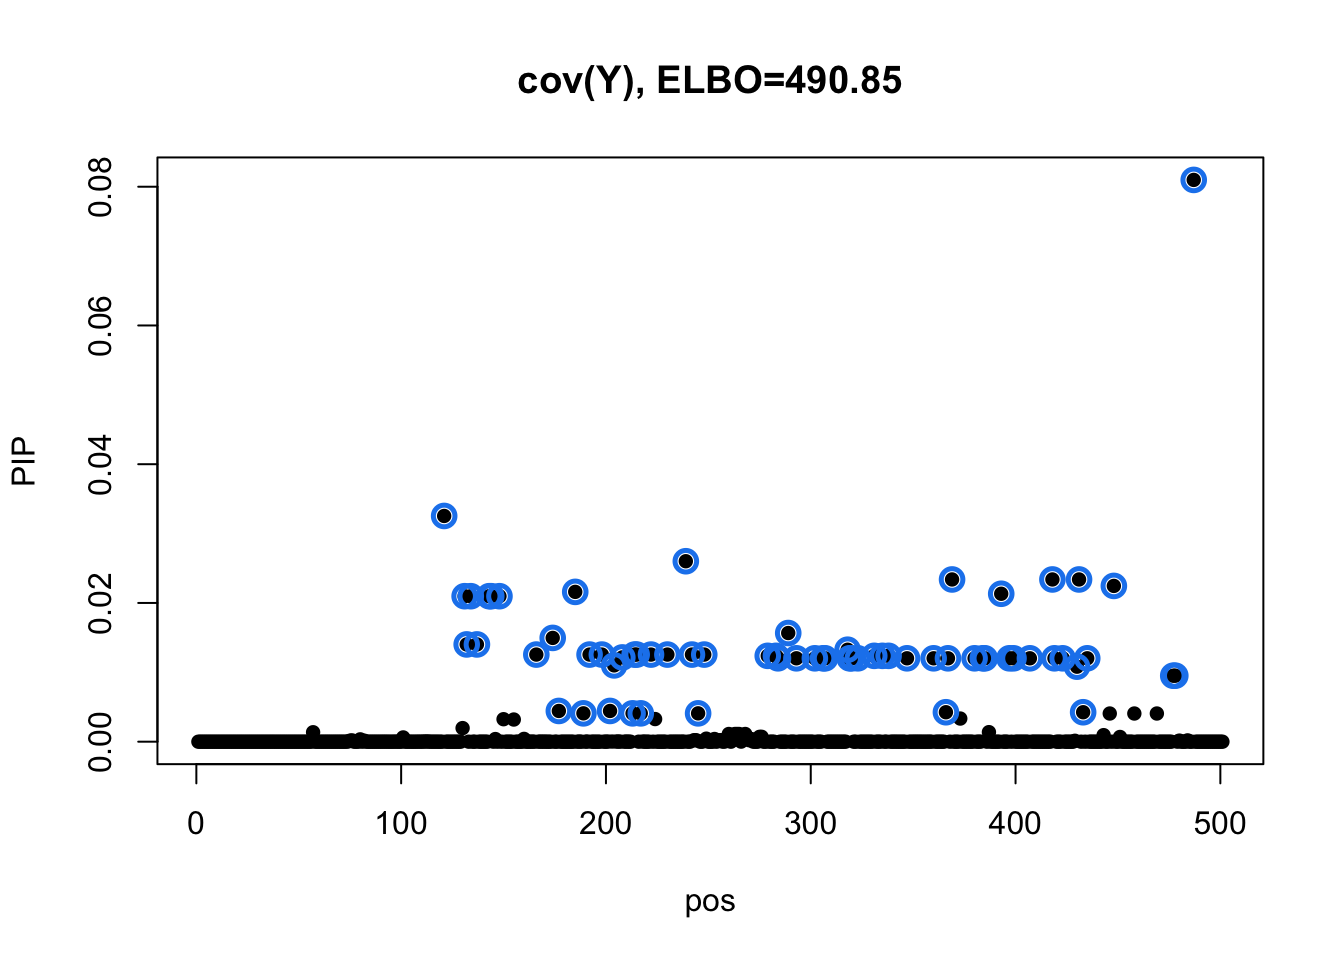
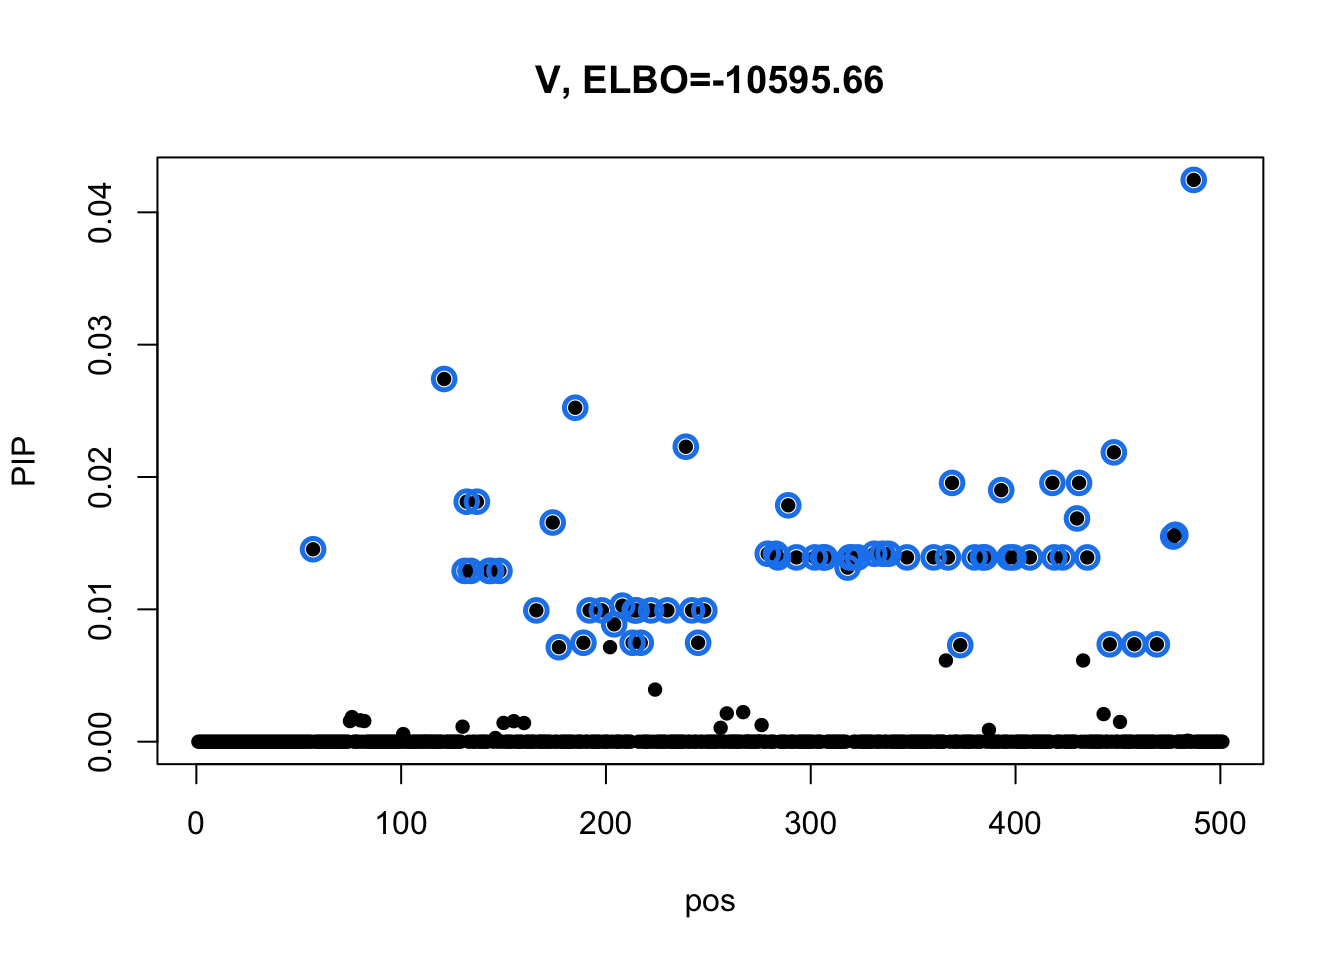
Build site.

diff --git a/docs/GTExprofileProblem.html b/docs/GTExprofileProblem.html
@@ -428,7 +428,7 @@ div.tocify {
 <div class="tab-content">
 <div id="summary" class="tab-pane fade in active">
 <p>
-<strong>Last updated:</strong> 2020-11-09
+<strong>Last updated:</strong> 2020-11-10
 </p>
 <p>
 <strong>Checks:</strong> <span class="glyphicon glyphicon-ok text-success" aria-hidden="true"></span> 7 <span class="glyphicon glyphicon-exclamation-sign text-danger" aria-hidden="true"></span> 0
@@ -519,16 +519,16 @@ This reproducible <a href="http://rmarkdown.rstudio.com">R Markdown</a> analysis
 <div class="panel panel-default">
 <div class="panel-heading">
 <p class="panel-title">
-<a data-toggle="collapse" data-parent="#workflowr-checks" href="#strongRepositoryversionstrongahrefhttpsgithubcomzouyuxinmmbrrssdsctree93280ec60d0389ed6a7fb898f173f463e3c6e3f9targetblank93280eca"> <span class="glyphicon glyphicon-ok text-success" aria-hidden="true"></span> <strong>Repository version:</strong> <a href="https://github.com/zouyuxin/mmbr-rss-dsc/tree/93280ec60d0389ed6a7fb898f173f463e3c6e3f9" target="_blank">93280ec</a> </a>
+<a data-toggle="collapse" data-parent="#workflowr-checks" href="#strongRepositoryversionstrongahrefhttpsgithubcomzouyuxinmmbrrssdsctree034ffadcbb3479eb45904ffc0697e0d236806b75targetblank034ffada"> <span class="glyphicon glyphicon-ok text-success" aria-hidden="true"></span> <strong>Repository version:</strong> <a href="https://github.com/zouyuxin/mmbr-rss-dsc/tree/034ffadcbb3479eb45904ffc0697e0d236806b75" target="_blank">034ffad</a> </a>
 </p>
 </div>
[2 lines of base64/hex data omitted]
 <div class="panel-body">
 <p>
 Great! You are using Git for version control. Tracking code development and connecting the code version to the results is critical for reproducibility.
 </p>
 <p>
-The results in this page were generated with repository version <a href="https://github.com/zouyuxin/mmbr-rss-dsc/tree/93280ec60d0389ed6a7fb898f173f463e3c6e3f9" target="_blank">93280ec</a>. See the <em>Past versions</em> tab to see a history of the changes made to the R Markdown and HTML files.
+The results in this page were generated with repository version <a href="https://github.com/zouyuxin/mmbr-rss-dsc/tree/034ffadcbb3479eb45904ffc0697e0d236806b75" target="_blank">034ffad</a>. See the <em>Past versions</em> tab to see a history of the changes made to the R Markdown and HTML files.
 </p>
 <p>
 Note that you need to be careful to ensure that all relevant files for the analysis have been committed to Git prior to generating the results (you can use <code>wflow_publish</code> or <code>wflow_git_commit</code>). workflowr only checks the R Markdown file, but you know if there are other scripts or data files that it depends on. Below is the status of the Git repository when the results were generated:
@@ -541,6 +541,7 @@ Ignored files:
     Ignored:    output/.DS_Store
 
 Untracked files:
+    Untracked:  code/mvsusie.R
     Untracked:  data/ENSG00000140265.12.Multi_Tissues.rds
     Untracked:  data/FastQTLSumStats.mash.FL_PC3.rds
     Untracked:  output/.mmbr_gtex_res.Rprof.swp
@@ -616,6 +617,40 @@ Message
 </tr>
 </thead>
 <tbody>
+<tr>
+<td>
+Rmd
+</td>
+<td>
+<a href="https://github.com/zouyuxin/mmbr-rss-dsc/blob/034ffadcbb3479eb45904ffc0697e0d236806b75/analysis/GTExprofileProblem.Rmd" target="_blank">034ffad</a>
+</td>
+<td>
+zouyuxin
+</td>
+<td>
+2020-11-10
+</td>
+<td>
+wflow_publish(&quot;analysis/GTExprofileProblem.Rmd&quot;)
+</td>
+</tr>
+<tr>
+<td>
+html
+</td>
+<td>
+<a href="https://rawcdn.githack.com/zouyuxin/mmbr-rss-dsc/bf1cf59c97df29ce0219a582970b907c87d10109/docs/GTExprofileProblem.html" target="_blank">bf1cf59</a>
+</td>
+<td>
+zouyuxin
+</td>
+<td>
+2020-11-09
+</td>
+<td>
+Build site.
+</td>
+</tr>
 <tr>
 <td>
 Rmd
@@ -1469,8 +1504,8 @@ zouyuxin
 Y = t(t(dat$Y) - Ymean)
 Y[is.na(Y)] = 0
 
-m1 = mmbr::msusie(dat$X, Y, prior_variance = dat$prior$XX, residual_variance = cov(Y), L = 1, compute_objective = T, estimate_prior_variance = FALSE)
-susie_plot(m1, y=&#39;PIP&#39;, main=paste0(&#39;cov(Y), ELBO=&#39;, round(m1$elbo[m1$niter],2)))</code></pre>
+m1 = mmbr::msusie(dat$X, Y, prior_variance = dat$prior$XX, residual_variance = dat$residual_var, L = 1, compute_objective = T, estimate_prior_variance = FALSE)
+susie_plot(m1, y=&#39;PIP&#39;, main=paste0(&#39;V, ELBO=&#39;, round(m1$elbo[m1$niter],2)))</code></pre>
 <p><img src="figure/GTExprofileProblem.Rmd/unnamed-chunk-10-1.png" width="672" style="display: block; margin: auto;" /></p>
 <p>
 <button type="button" class="btn btn-default btn-xs btn-workflowr btn-workflowr-fig" data-toggle="collapse" data-target="#fig-unnamed-chunk-10-1">
@@ -1520,8 +1555,8 @@ zouyuxin
 </table>
 </div>
 </div>
-<pre class="r"><code>m2 = mmbr::msusie(dat$X, Y, prior_variance = dat$prior$XX, residual_variance = diag(diag(cov(Y))), L = 1, approximate=FALSE, compute_objective = T, estimate_prior_variance = FALSE)
-susie_plot(m2, y=&#39;PIP&#39;, main=paste0(&#39;diag(cov(Y)), ELBO=&#39;, round(m2$elbo[m2$niter],2)))</code></pre>
+<pre class="r"><code>m2 = mmbr::msusie(dat$X, Y, prior_variance = dat$prior$XX, residual_variance = diag(diag(dat$residual_var)), L = 1, approximate=FALSE, compute_objective = T, estimate_prior_variance = FALSE)
+susie_plot(m2, y=&#39;PIP&#39;, main=paste0(&#39;diag(V), ELBO=&#39;, round(m2$elbo[m2$niter],2)))</code></pre>
 <p><img src="figure/GTExprofileProblem.Rmd/unnamed-chunk-10-2.png" width="672" style="display: block; margin: auto;" /></p>
 <p>
 <button type="button" class="btn btn-default btn-xs btn-workflowr btn-workflowr-fig" data-toggle="collapse" data-target="#fig-unnamed-chunk-10-2">
@@ -1560,7 +1595,6 @@ zouyuxin
 </table>
 </div>
 </div>
-<p>There is no overlep between CSs from these 2 models.</p>
 <br>
 <p>
 <button type="button" class="btn btn-default btn-workflowr btn-workflowr-sessioninfo" data-toggle="collapse" data-target="#workflowr-sessioninfo" style="display: block;">
